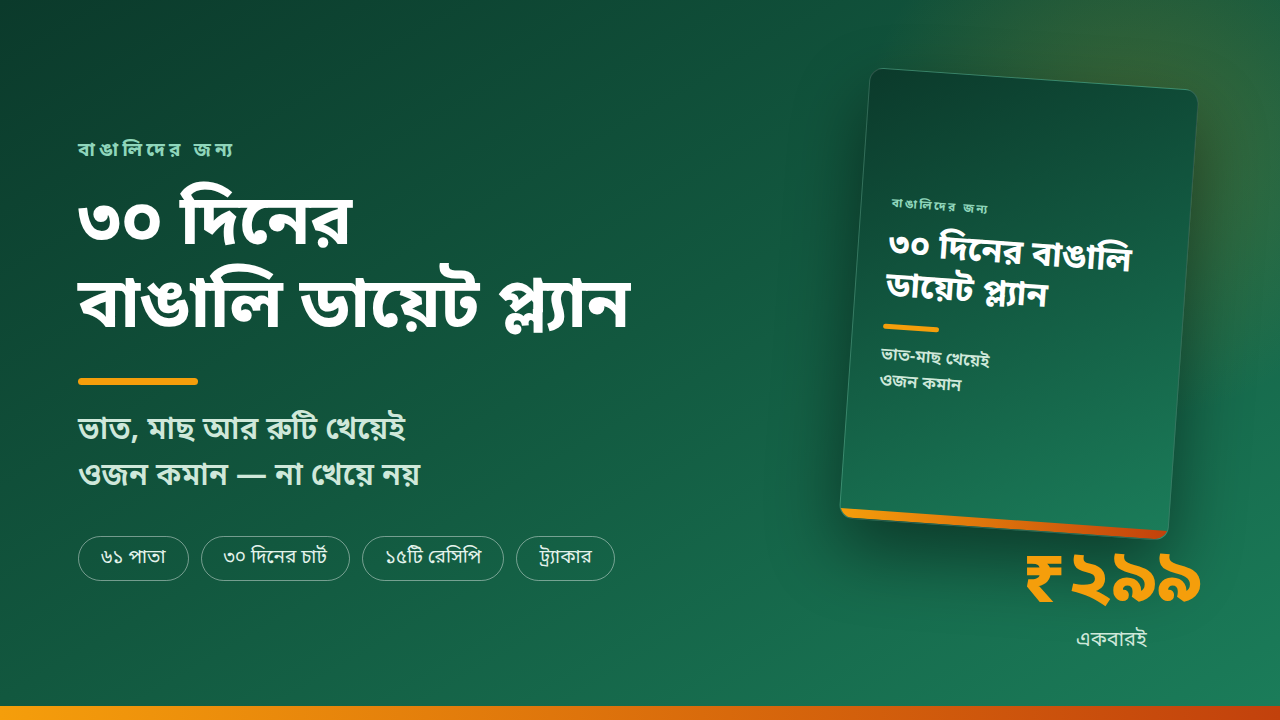
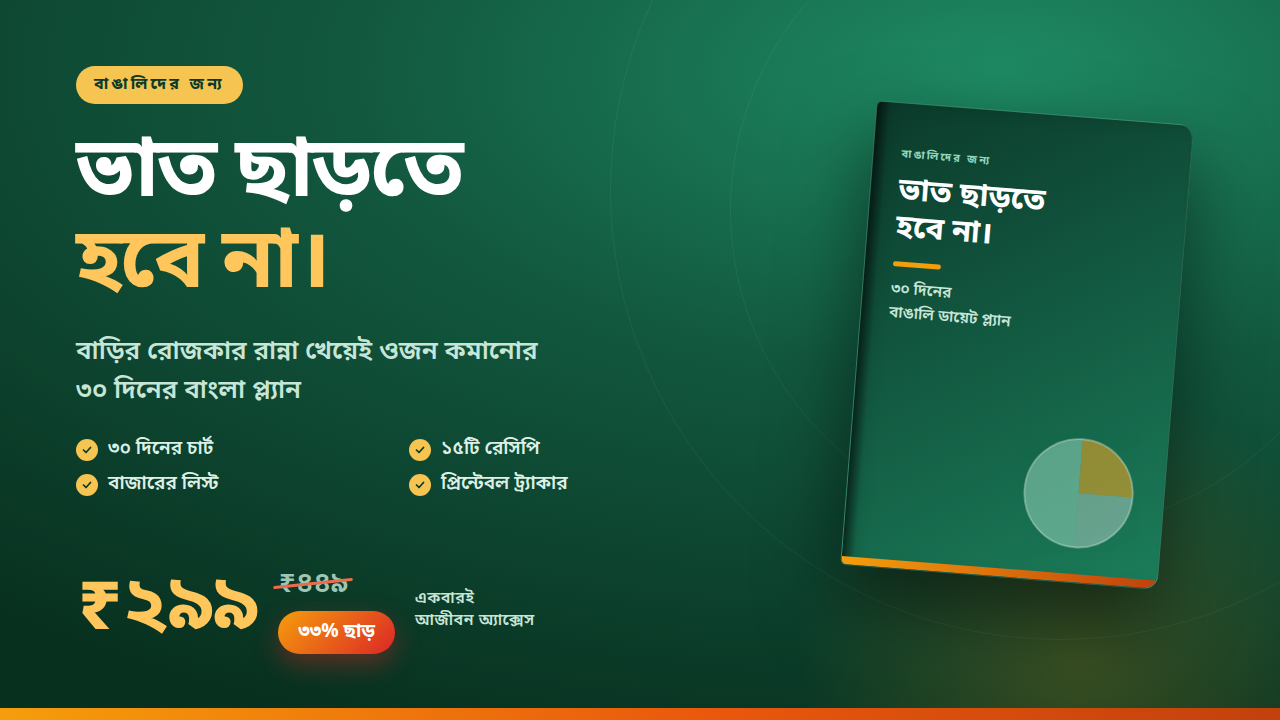
marketing: কভার ইমেজ v2 — নতুন হুক ও ডিসকাউন্ট প্রাইসিং
- হেডলাইন বদল: পণ্যের নাম → হুক ('ভাত ছাড়তে হবে না।')
- ₹৪৪৯ কাটা দাম + ₹২৯৯ + ৩৩% ছাড়ের ব্যাজ
- বাঁ কলামে দাম সরানো, বইয়ের মকআপের সঙ্গে ওভারল্যাপ ঠিক করা
- বইয়ের কভারে প্লেট মোটিফ

Claude-Session: https://claude.ai/code/session_01DN7gbVMkseojCtNj9GN3pP

diff --git a/ebook/marketing/images/cover.html b/ebook/marketing/images/cover.html
@@ -5,55 +5,94 @@
 *{margin:0;padding:0;box-sizing:border-box}
 body{font-family:'NSB',sans-serif}
 .c{width:1280px;height:720px;position:relative;overflow:hidden;
-  background:linear-gradient(150deg,#0B3A2B 0%,#12583F 48%,#1B7D5A 100%);
-  display:flex;align-items:center;padding:0 78px;color:#fff}
-.glow{position:absolute;right:-160px;top:-160px;width:620px;height:620px;border-radius:50%;
+  background:radial-gradient(120% 100% at 78% 10%, #1E8A63 0%, #12583F 42%, #08301F 100%);
+  color:#fff}
+/* subtle texture rings */
+.ring{position:absolute;border:1.5px solid rgba(255,255,255,.055);border-radius:50%}
+.r1{width:900px;height:900px;right:-230px;top:-260px}
+.r2{width:640px;height:640px;right:-90px;top:-110px}
+.glow{position:absolute;right:-120px;bottom:-260px;width:640px;height:640px;border-radius:50%;
   background:radial-gradient(circle,#F59E0B 0%,transparent 62%);opacity:.20}
-.band{position:absolute;left:0;right:0;bottom:0;height:14px;
-  background:linear-gradient(90deg,#F59E0B 0%,#C2410C 100%)}
-.L{position:relative;z-index:2;width:700px}
-.kick{font-size:19px;letter-spacing:.22em;color:#8FD6BB;font-weight:700;margin-bottom:22px}
-h1{font-size:70px;line-height:1.18;font-weight:700;letter-spacing:-.5px}
-.rule{width:120px;height:7px;background:#F59E0B;border-radius:4px;margin:26px 0 24px}
-.sub{font-size:31px;line-height:1.5;color:#CFE8DA;font-weight:600}
-.pills{display:flex;gap:12px;margin-top:34px;flex-wrap:wrap}
-.p{border:1.5px solid rgba(255,255,255,.42);border-radius:40px;padding:9px 22px;font-size:19px;color:#E4F3EC}
-.price{position:absolute;right:78px;bottom:66px;z-index:3;text-align:center}
-.price .amt{font-size:74px;font-weight:700;color:#F59E0B;line-height:1}
-.price .lbl{font-size:20px;color:#CFE8DA;margin-top:8px}
-.R{position:absolute;right:96px;top:78px;z-index:2;
-  width:330px;height:452px;border-radius:14px;overflow:hidden;
-  box-shadow:0 30px 70px rgba(0,0,0,.45);transform:rotate(4deg);
-  background:linear-gradient(155deg,#0B3A2B,#1B7D5A);
-  padding:44px 30px;display:flex;flex-direction:column;justify-content:center;
-  border:1px solid rgba(255,255,255,.14)}
-.R .k{font-size:12px;letter-spacing:.2em;color:#8FD6BB;font-weight:700;margin-bottom:14px}
-.R .t{font-size:34px;font-weight:700;line-height:1.22}
-.R .r{width:56px;height:5px;background:#F59E0B;border-radius:3px;margin:16px 0 14px}
-.R .s{font-size:17px;color:#CFE8DA;line-height:1.5;font-weight:600}
-.R .b{position:absolute;left:0;right:0;bottom:0;height:9px;background:linear-gradient(90deg,#F59E0B,#C2410C)}
+.band{position:absolute;left:0;right:0;bottom:0;height:12px;
+  background:linear-gradient(90deg,#F59E0B 0%,#EA580C 55%,#C2410C 100%)}
+
+.L{position:absolute;left:76px;top:66px;width:640px;z-index:3}
+.kick{display:inline-block;font-size:16px;letter-spacing:.2em;color:#0B3A2B;font-weight:700;
+  background:#F5C451;padding:8px 18px;border-radius:30px;margin-bottom:26px}
+h1{font-size:84px;line-height:1.08;font-weight:700;letter-spacing:-2px}
+h1 em{font-style:normal;color:#FFC65C;display:block}
+.sub{font-size:26px;line-height:1.5;color:#C8E6D7;font-weight:600;margin-top:22px}
+.ticks{margin-top:26px;display:grid;grid-template-columns:1fr 1fr;gap:10px 26px}
+.t{font-size:19px;color:#DDF0E6;display:flex;align-items:center;gap:10px;font-weight:600}
+.t i{width:22px;height:22px;border-radius:50%;background:#F5C451;flex:none;
+  display:flex;align-items:center;justify-content:center;font-style:normal}
+.t i svg{width:12px;height:12px}
+
+/* book */
+.book{position:absolute;right:104px;top:112px;z-index:3;width:318px;height:466px;
+  border-radius:6px 14px 14px 6px;transform:rotate(4.5deg);
+  background:linear-gradient(150deg,#0B3A2B,#1B7D5A);
+  box-shadow:0 36px 78px rgba(0,0,0,.5), inset 12px 0 22px -12px rgba(0,0,0,.55);
+  padding:44px 28px 28px;overflow:hidden;border:1px solid rgba(255,255,255,.12)}
+.book:before{content:'';position:absolute;left:0;top:0;bottom:0;width:13px;
+  background:linear-gradient(90deg,rgba(0,0,0,.45),transparent)}
+.book .k{font-size:11px;letter-spacing:.2em;color:#8FD6BB;font-weight:700;margin-bottom:12px}
+.book .t2{font-size:31px;font-weight:700;line-height:1.2}
+.book .r{width:48px;height:5px;background:#F59E0B;border-radius:3px;margin:14px 0 12px}
+.book .s{font-size:15.5px;color:#C8E6D7;line-height:1.5;font-weight:600}
+.book .plate{position:absolute;right:22px;bottom:26px;width:126px;opacity:.9}
+.book .bb{position:absolute;left:0;right:0;bottom:0;height:8px;
+  background:linear-gradient(90deg,#F59E0B,#C2410C)}
+
+/* price block */
+.price{position:absolute;left:76px;bottom:66px;z-index:4;display:flex;align-items:center;gap:20px}
+.price .now{font-size:76px;font-weight:700;color:#FFC65C;line-height:.94;letter-spacing:-1px}
+.price .col{display:flex;flex-direction:column;gap:7px}
+.price .old{font-size:29px;color:#9FC6B4;font-weight:600;position:relative;align-self:flex-start}
+.price .old:after{content:'';position:absolute;left:-5px;right:-5px;top:44%;height:3px;
+  background:#EF6C4A;transform:rotate(-6deg);border-radius:2px}
+.price .lbl{font-size:16px;color:#C8E6D7;letter-spacing:.03em;font-weight:600}
+.off{background:linear-gradient(135deg,#F59E0B,#DC2626);color:#fff;font-size:19px;font-weight:700;
+  padding:9px 20px;border-radius:30px;align-self:flex-start;
+  box-shadow:0 10px 26px rgba(220,38,38,.4)}
 </style></head><body>
 <div class="c">
-  <div class="glow"></div>
+  <div class="ring r1"></div><div class="ring r2"></div><div class="glow"></div>
+
   <div class="L">
     <div class="kick">বাঙালিদের জন্য</div>
-    <h1>৩০ দিনের<br>বাঙালি ডায়েট প্ল্যান</h1>
-    <div class="rule"></div>
-    <div class="sub">ভাত, মাছ আর রুটি খেয়েই<br>ওজন কমান — না খেয়ে নয়</div>
-    <div class="pills">
-      <span class="p">৬১ পাতা</span>
-      <span class="p">৩০ দিনের চার্ট</span>
-      <span class="p">১৫টি রেসিপি</span>
-      <span class="p">ট্র্যাকার</span>
+    <h1>ভাত ছাড়তে<em>হবে না।</em></h1>
+    <div class="sub">বাড়ির রোজকার রান্না খেয়েই ওজন কমানোর<br>৩০ দিনের বাংলা প্ল্যান</div>
+    <div class="ticks">
+      <div class="t"><i><svg viewBox="0 0 24 24" fill="none"><path d="M5 12l5 5L19 7" stroke="#0B3A2B" stroke-width="3.4" stroke-linecap="round" stroke-linejoin="round"/></svg></i>৩০ দিনের চার্ট</div>
+      <div class="t"><i><svg viewBox="0 0 24 24" fill="none"><path d="M5 12l5 5L19 7" stroke="#0B3A2B" stroke-width="3.4" stroke-linecap="round" stroke-linejoin="round"/></svg></i>১৫টি রেসিপি</div>
+      <div class="t"><i><svg viewBox="0 0 24 24" fill="none"><path d="M5 12l5 5L19 7" stroke="#0B3A2B" stroke-width="3.4" stroke-linecap="round" stroke-linejoin="round"/></svg></i>বাজারের লিস্ট</div>
+      <div class="t"><i><svg viewBox="0 0 24 24" fill="none"><path d="M5 12l5 5L19 7" stroke="#0B3A2B" stroke-width="3.4" stroke-linecap="round" stroke-linejoin="round"/></svg></i>প্রিন্টেবল ট্র্যাকার</div>
     </div>
   </div>
-  <div class="R">
+
+  <div class="book">
     <div class="k">বাঙালিদের জন্য</div>
-    <div class="t">৩০ দিনের বাঙালি ডায়েট প্ল্যান</div>
+    <div class="t2">ভাত ছাড়তে<br>হবে না।</div>
     <div class="r"></div>
-    <div class="s">ভাত-মাছ খেয়েই<br>ওজন কমান</div>
-    <div class="b"></div>
+    <div class="s">৩০ দিনের<br>বাঙালি ডায়েট প্ল্যান</div>
+    <svg class="plate" viewBox="0 0 200 200">
+      <circle cx="100" cy="100" r="86" fill="#fff" opacity=".14"/>
+      <path d="M100 14 A86 86 0 0 0 100 186 Z" fill="#8FD6BB" opacity=".5"/>
+      <path d="M100 14 A86 86 0 0 1 186 100 L100 100 Z" fill="#F59E0B" opacity=".55"/>
+      <path d="M100 186 A86 86 0 0 0 186 100 L100 100 Z" fill="#fff" opacity=".28"/>
+      <circle cx="100" cy="100" r="86" fill="none" stroke="#fff" stroke-width="3" opacity=".35"/>
+    </svg>
+    <div class="bb"></div>
   </div>
-  <div class="price"><div class="amt">₹২৯৯</div><div class="lbl">একবারই</div></div>
+
+  <div class="price">
+    <div class="now">₹২৯৯</div>
+    <div class="col">
+      <div class="old">₹৪৪৯</div>
+      <div class="off">৩৩% ছাড়</div>
+    </div>
+    <div class="lbl">একবারই<br>আজীবন অ্যাক্সেস</div>
+  </div>
   <div class="band"></div>
 </div></body></html>
